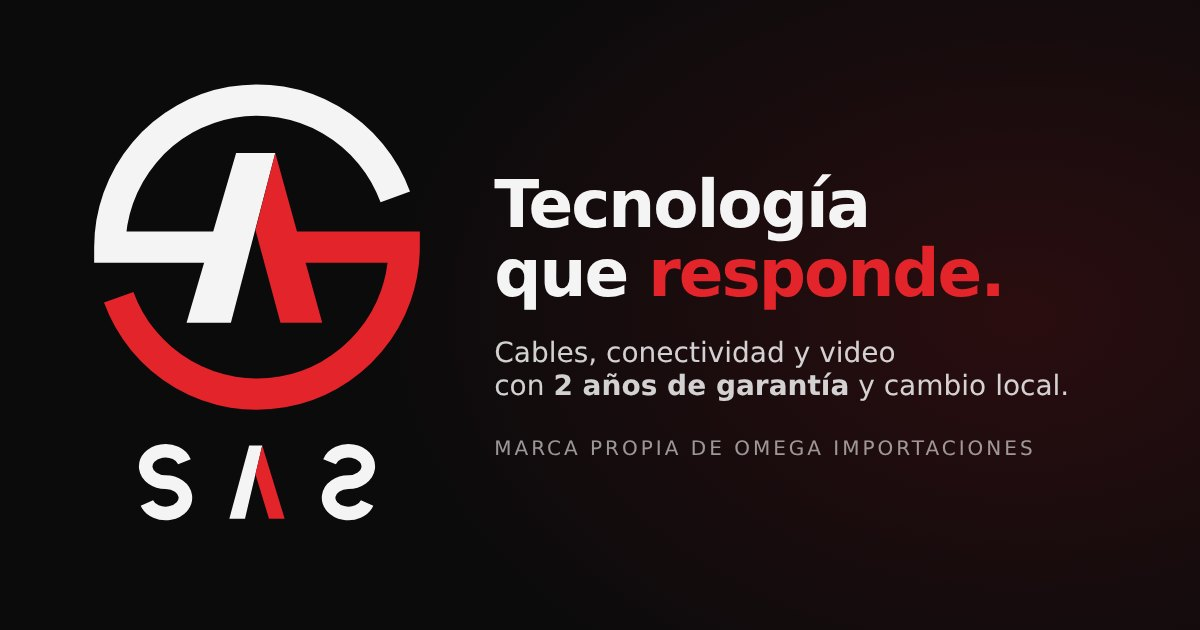
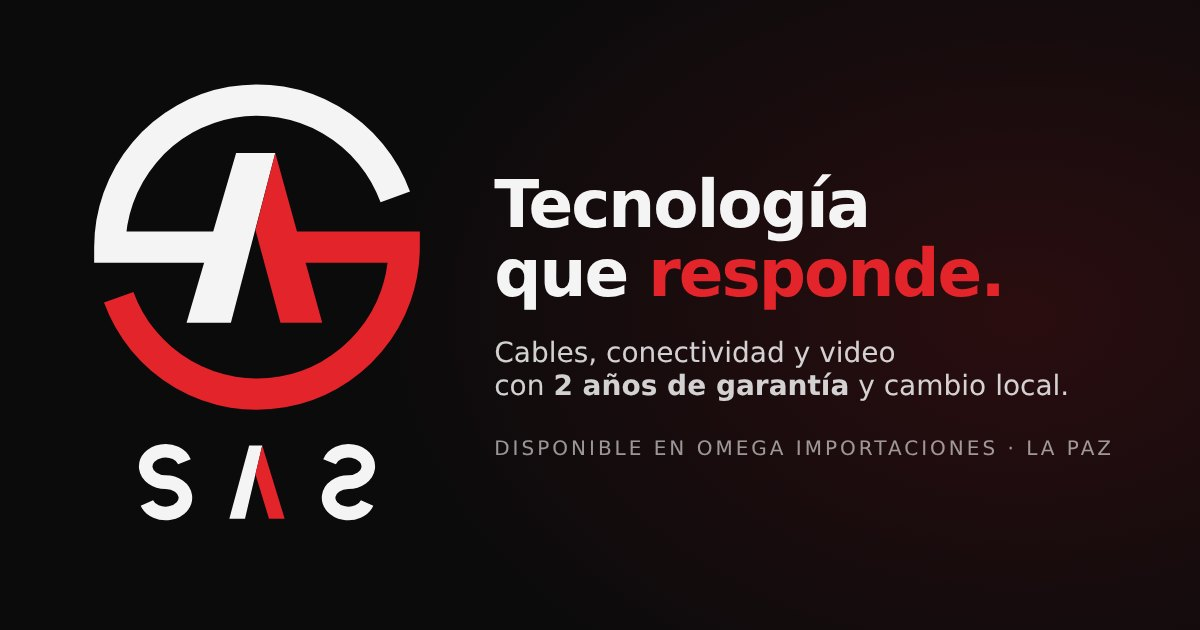
Add files via upload

Changed region(s): [[0.4008, 0.6937, 0.925, 0.7238]]

diff --git a/index.html b/index.html
@@ -8,14 +8,14 @@
 
     <title>Omega Importaciones | SAS, tecnología que responde</title>
 
-    <meta name="description" content="SAS, la marca propia de Omega Importaciones: cables HDMI, redes, conversores y accesorios con 2 años de garantía y cambio en tienda. La Paz, Bolivia.">
+    <meta name="description" content="SAS en Omega Importaciones: cables HDMI, redes, conversores y accesorios con 2 años de garantía y cambio en tienda. La Paz, Bolivia.">
     <meta name="theme-color" content="#0b0b0c">
     <meta name="robots" content="index, follow">
     <link rel="canonical" href="https://omegaimportaciones.github.io/Omega/">
 
     <!-- Open Graph -->
     <meta property="og:title" content="SAS · Tecnología que responde">
-    <meta property="og:description" content="Marca propia de Omega Importaciones. Cables, conectividad y video con 2 años de garantía y cambio en tienda, en La Paz.">
+    <meta property="og:description" content="Encuentra SAS en Omega Importaciones, La Paz. Cables, conectividad y video con 2 años de garantía y cambio en tienda, en La Paz.">
     <meta property="og:image" content="https://omegaimportaciones.github.io/Omega/img/sas/og-sas.jpg">
     <meta property="og:image:width" content="1200">
     <meta property="og:image:height" content="630">
@@ -73,7 +73,7 @@
         <!-- HERO SAS -->
         <section class="sas-hero">
             <div class="sas-hero-copy">
-                <p class="eyebrow"><span class="eyebrow-dot"></span>Marca propia de Omega Importaciones</p>
+                <p class="eyebrow"><span class="eyebrow-dot"></span>Omega Importaciones · Socio estratégico SAS</p>
                 <h1>Tecnología que <em>responde.</em></h1>
                 <p class="lead">Cables, conectividad y accesorios de video SAS, desarrollados junto a fabricantes especializados. Con <strong>2 años de garantía</strong> y cambio en el momento cuando se confirma un defecto cubierto.</p>
                 <div class="hero-actions">
@@ -180,9 +180,9 @@
                 <p>La fábrica que produce SAS cuenta con certificación ISO 9001, que respalda su <strong>sistema de gestión de calidad</strong>. No es una certificación individual de cada producto.</p>
             </div>
             <div class="quality-card">
-                <span class="quality-icon" data-icon="cable"></span>
-                <h3>Desarrollado con Omega</h3>
-                <p>Omega Importaciones participa en el desarrollo de cada línea SAS junto a fabricantes especializados.</p>
+                <span class="quality-icon" data-icon="pin"></span>
+                <h3>Atención local</h3>
+                <p>Como socio estratégico de SAS, en Omega Importaciones te asesoramos y atendemos la garantía directamente en tienda.</p>
             </div>
             <div class="quality-card">
                 <span class="quality-icon" data-icon="search2"></span>
@@ -196,8 +196,8 @@
         <section class="section omega-band">
             <div class="omega-band-copy">
                 <div class="omega-lockup"><span data-icon="mark"></span><span>Omega Importaciones</span></div>
-                <h2>SAS, con el respaldo de Omega Importaciones</h2>
-                <p>Somos la tienda de tecnología detrás de SAS. Además de nuestra marca, tenemos <strong><span data-total-products>…</span> productos</strong> de otras marcas: audífonos, cámaras, parlantes, mouse y más.</p>
+                <h2>Omega Importaciones, socio estratégico de SAS</h2>
+                <p>Somos la tienda de tecnología donde encuentras SAS con atención y garantía local. Además, tenemos <strong><span data-total-products>…</span> productos</strong> de otras marcas: audífonos, cámaras, parlantes, mouse y más.</p>
                 <div class="hero-actions">
                     <a class="button button--light" href="./pages/catalogo.html">Ver catálogo Omega completo</a>
                     <a class="button button--ghost" href="./pages/ubicacion.html">Cómo llegar</a>

diff --git a/pages/sas.html b/pages/sas.html
@@ -8,14 +8,14 @@
 
     <title>Productos SAS · Tecnología que responde | Omega Importaciones</title>
 
-    <meta name="description" content="Catálogo SAS: cables HDMI, redes UTP, conversores, audio y USB con 2 años de garantía y cambio en tienda. Marca propia de Omega Importaciones.">
+    <meta name="description" content="Catálogo SAS: cables HDMI, redes UTP, conversores, audio y USB con 2 años de garantía y cambio en tienda. Disponible en Omega Importaciones, La Paz.">
     <meta name="theme-color" content="#0b0b0c">
     <meta name="robots" content="index, follow">
     <link rel="canonical" href="https://omegaimportaciones.github.io/Omega/pages/sas.html">
 
     <!-- Open Graph -->
     <meta property="og:title" content="Productos SAS · Tecnología que responde | Omega Importaciones">
-    <meta property="og:description" content="Catálogo SAS: cables HDMI, redes UTP, conversores, audio y USB con 2 años de garantía y cambio en tienda. Marca propia de Omega Importaciones.">
+    <meta property="og:description" content="Catálogo SAS: cables HDMI, redes UTP, conversores, audio y USB con 2 años de garantía y cambio en tienda. Disponible en Omega Importaciones, La Paz.">
     <meta property="og:image" content="https://omegaimportaciones.github.io/Omega/img/sas/og-sas.jpg">
     <meta property="og:image:width" content="1200">
     <meta property="og:image:height" content="630">
@@ -54,7 +54,7 @@
             <div class="sas-head">
                 <span class="sas-head-mark" data-icon="sas"></span>
                 <div>
-                    <p class="eyebrow">Marca propia de Omega Importaciones</p>
+                    <p class="eyebrow">Disponible en Omega Importaciones</p>
                     <h1>Productos SAS</h1>
                 </div>
             </div>

diff --git a/pages/catalogo.html b/pages/catalogo.html
@@ -57,7 +57,7 @@
             </div>
             <p class="result-summary" id="resultSummary" aria-live="polite">Cargando productos…</p>
         </div>
-        <a class="sas-strip" href="../pages/sas.html"><span data-icon="sas"></span><span><strong>¿Buscas SAS?</strong> Nuestra marca propia, con 2 años de garantía.</span><span class="sas-strip-go">Ver SAS</span></a>
+        <a class="sas-strip" href="../pages/sas.html"><span data-icon="sas"></span><span><strong>¿Buscas SAS?</strong> Accesorios con 2 años de garantía y cambio en tienda.</span><span class="sas-strip-go">Ver SAS</span></a>
 
         <div class="shop-toolbar">
             <div class="chips" id="categoryChips" role="group" aria-label="Filtrar"></div>

diff --git a/js/ui/shell.js b/js/ui/shell.js
@@ -87,7 +87,7 @@
                             <span class="footer-x" aria-hidden="true">×</span>
                             ${I.mark}
                         </div>
-                        <p><strong>SAS · ${SAS.LEMA}</strong><br>Marca propia de ${STORE.NOMBRE}, tienda de tecnología con local en La Paz.</p>
+                        <p><strong>SAS · ${SAS.LEMA}</strong><br>${STORE.NOMBRE}, socio estratégico de SAS. Tienda de tecnología con local en La Paz.</p>
                     </div>
                     <div class="footer-col">
                         <h2>SAS</h2>
